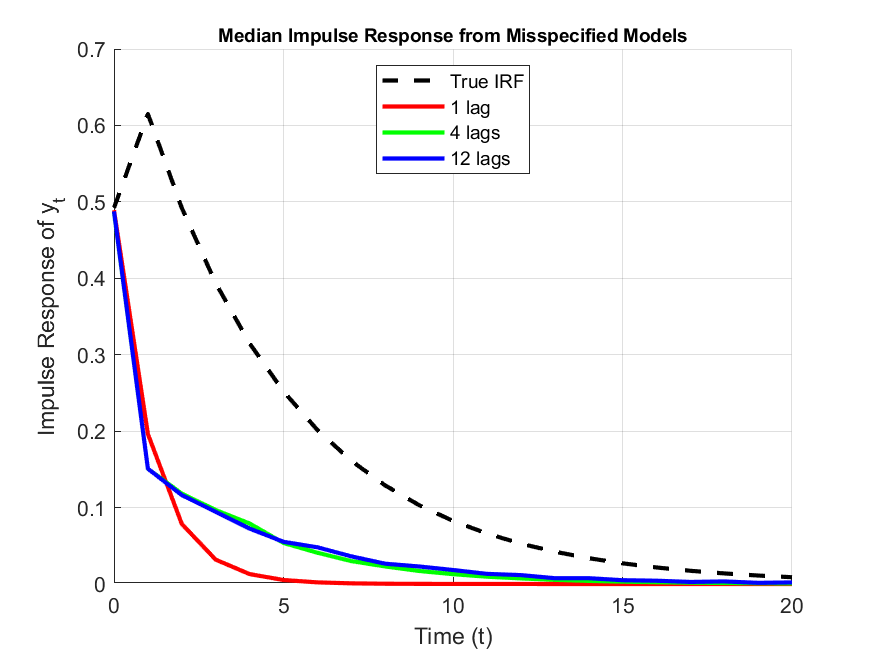
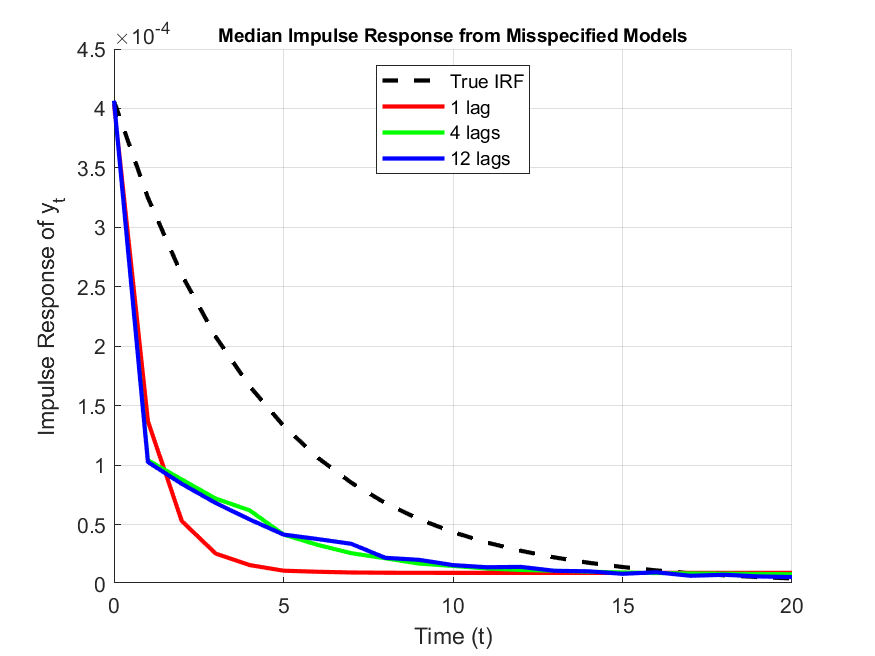
Final corrections and 1 std dev shock

diff --git a/PS1/ps1_5_Jorda_cont_irf.m b/PS1/ps1_5_Jorda_cont_irf.m
@@ -2,8 +2,8 @@ clear all
 
 % Parameters from previous solutions
 a = 0; %0.701502; % 1.43991; 
-b = 0.615; %0.262662; % -1.70648; 
-c = 0.492; %0.885;
+b = 0.49232; %0.262662; % -1.70648; 
+c = 0.6154; %0.885;
 d = 0.115;  % Not used here since eta_t = 0
 rho = 0.8;
 T = 600; % I will burn the first 100
@@ -17,6 +17,9 @@ sigma_eta = 0.007;
 sigma_eps = 0.00066;
 
 H = 20;  % horizon
+
+% shock to be simulated in Jorda's beta_h's
+shock_eps = 0.00066;
 
 % Storage for LP with control (y_{t-1})
 IRF_LP_control = zeros(H+1, N_sim);
@@ -41,7 +44,7 @@ for s = 1:N_sim
         y_lag = y(1:T);                      % y_{t-1}
         X = [ones(T,1), eps_t, y_lag];       % Add constant + controls
         b_lp = pinv(X)*Y_h;
-        IRF_LP_control(h+1, s) = b_lp(2);    % β_h on ε_t
+        IRF_LP_control(h+1, s) = b_lp(2)*shock_eps;    % β_h on ε_t
     end
 end
 
@@ -52,7 +55,7 @@ median_LP_control = median(IRF_LP_control, 2);
 horizon = 21; 
 true_irf = zeros(horizon,1);
 deltaM = zeros(horizon,1);
-eps_irf = zeros(horizon,1); eps_irf(1) = 1; % for Jorda, we use a 1 unit dev
+eps_irf = zeros(horizon,1); eps_irf(1) = shock_eps; % for Jorda shock
 
 for t = 1:horizon
     if t == 1

diff --git a/PS1/ps1_5_Jorda_irf.m b/PS1/ps1_5_Jorda_irf.m
@@ -2,8 +2,8 @@ clear all
 
 % Parameters from previous solutions
 a = 0; %0.701502; % 1.43991; 
-b = 0.615; %0.262662; % -1.70648; 
-c = 0.492; %0.885;
+b = 0.49232; %0.262662; % -1.70648; 
+c = 0.6154; %0.885;
 d = 0.115;  % Not used here since eta_t = 0
 rho = 0.8;
 T = 600; % I will burn the first 100
@@ -19,6 +19,9 @@ IRF_LP = zeros(H+1, N_sim);
 % Standard deviations (set so that Var(ΔM) = Var(η))
 sigma_eta = 0.007;
 sigma_eps = 0.00066;
+
+% shock to be simulated in Jorda's beta_h's
+shock_eps = 0.00066;
 
 for s = 1:N_sim
     % Simulate shocks
@@ -42,7 +45,7 @@ for s = 1:N_sim
         % Right-hand side: ε_t
         X = [ones(T,1), eps(1:T)];
         b_lp = pinv(X)*Y_h;
-        IRF_LP(h+1, s) = b_lp(2);  % β_h
+        IRF_LP(h+1, s) = b_lp(2)*shock_eps;  % β_h
     end
 end
 
@@ -53,7 +56,7 @@ median_LP = median(IRF_LP, 2);
 horizon = 21; 
 true_irf = zeros(horizon,1);
 deltaM = zeros(horizon,1);
-eps_irf = zeros(horizon,1); eps_irf(1) = 1; % for Jorda shock has to be 1
+eps_irf = zeros(horizon,1); eps_irf(1) = shock_eps; % for Jorda shock 
 
 for t = 1:horizon
     if t == 1

diff --git a/PS1/ps1_3_misspec_irf.m b/PS1/ps1_3_misspec_irf.m
@@ -2,8 +2,8 @@ clear all
 
 % Parameters from previous solutions
 a = 0; %0.701502; % 1.43991; 
-b = 0.615; %0.262662; % -1.70648; 
-c = 0.492; %0.885;
+b = 0.49232; %0.262662; % -1.70648; 
+c = 0.6154; %0.885;
 d = 0.115;  % Not used here since eta_t = 0
 rho = 0.8;
 T = 600; % I will burn the first 100
@@ -49,7 +49,7 @@ for s = 1:N_sim
     b1 = pinv(X1)*Y;
     % Impulse response: simulate y_t after ε_0 = 1 standard dev
     y1 = zeros(horizon,1);
-    eps_irf = zeros(horizon,1); eps_irf(1) = 1; % 0.00066;
+    eps_irf = zeros(horizon,1); eps_irf(1) = 0.00066; % 0.00066;
     y1(1) = b1(1) + b1(end)*eps_irf(1); % initial response: alpha + gamma*shock
     for t = 2:horizon
         y1(t) = b1(1) + b1(2) * y1(t-1) + b1(3) * eps_irf(t);
@@ -105,7 +105,7 @@ median_12 = median(IRF_12lag, 2);
 % --- Compute true impulse response ---
 true_irf = zeros(horizon,1);
 deltaM = zeros(horizon,1);
-eps_irf = zeros(horizon,1); eps_irf(1) = 1; %0.00066;
+eps_irf = zeros(horizon,1); eps_irf(1) = 0.00066; %0.00066;
 
 for t = 1:horizon
     if t == 1

diff --git a/PS1/ps1_4_eps6_irf.m b/PS1/ps1_4_eps6_irf.m
@@ -2,8 +2,8 @@ clear all
 
 % Parameters from previous solutions
 a = 0; %0.701502; % 1.43991; 
-b = 0.615; %0.262662; % -1.70648; 
-c = 0.492; %0.885;
+b = 0.49232; %0.262662; % -1.70648; 
+c = 0.6154; %0.885;
 d = 0.115;  % Not used here since eta_t = 0
 rho = 0.8;
 T = 600; % I will burn the first 100
@@ -58,7 +58,7 @@ for s = 1:N_sim
 
     % Compute impulse response
     y_irf = zeros(horizon, 1);
-    eps_irf = zeros(horizon, 1); eps_irf(1) = 1;%0.00066;
+    eps_irf = zeros(horizon, 1); eps_irf(1) = 0.00066;
     %deltaM_irf = zeros(horizon,1); deltaM_irf(1) = eps_irf(1); % initial shock just contemporary
     y_irf(1) = b_est(1) + b_est(3)*eps_irf(1); % initial response: alpha + gamma*shock
 
@@ -81,7 +81,7 @@ median_dM6 = median(IRF_eps6, 2);
 % --- Compute true impulse response ---
 true_irf = zeros(horizon,1);
 deltaM = zeros(horizon,1);
-eps_irf = zeros(horizon,1); eps_irf(1) = 1;%0.00066;
+eps_irf = zeros(horizon,1); eps_irf(1) = 0.00066;
 
 for t = 1:horizon
     if t == 1

diff --git a/PS1/ps1_4_monetary_irf.m b/PS1/ps1_4_monetary_irf.m
@@ -2,8 +2,8 @@ clear all
 
 % Parameters from previous solutions
 a = 0; %0.701502; % 1.43991; 
-b = 0.615; %0.262662; % -1.70648; 
-c = 0.492; %0.885;
+b = 0.49232; %0.262662; % -1.70648; 
+c = 0.6154; %0.885;
 d = 0.115;  % Not used here since eta_t = 0
 rho = 0.8;
 T = 600; % I will burn the first 100
@@ -52,7 +52,7 @@ for s = 1:N_sim
 
     % Compute impulse response
     y_irf = zeros(horizon, 1);
-    eps_irf = zeros(horizon, 1); eps_irf(1) = 1;%0.00066;
+    eps_irf = zeros(horizon, 1); eps_irf(1) = 0.00066;
     deltaM_irf = zeros(horizon,1); deltaM_irf(1) = eps_irf(1); % initial shock just contemporary
     y_irf(1) = b_est(1) + b_est(end)*eps_irf(1); % initial response: alpha + gamma*shock
 
@@ -75,7 +75,7 @@ median_dM6 = median(IRF_dM6, 2);
 % --- Compute true impulse response ---
 true_irf = zeros(horizon,1);
 deltaM = zeros(horizon,1);
-eps_irf = zeros(horizon,1); eps_irf(1) = 1;%0.00066;
+eps_irf = zeros(horizon,1); eps_irf(1) = 0.00066;
 
 for t = 1:horizon
     if t == 1

diff --git a/PS1/ps1_2_true_irf.m b/PS1/ps1_2_true_irf.m
@@ -7,8 +7,8 @@ rho = 0.8;
 
 % Coefficients from numerical solution (approximated)
 a = 0; %0.701502; % 1.43991; 
-b = 0.615; %0.262662; % -1.70648; 
-c = 0.492; %0.885;
+b = 0.49232; %0.262662; % -1.70648; 
+c = 0.6154; %0.885;
 d = 0.115;  % Not used here since eta_t = 0
 
 % Simulation settings
@@ -19,8 +19,8 @@ eps = zeros(T, 1);          % Monetary shocks
 eta = zeros(T, 1);          % Productivity shocks
 
 % Apply one-unit shock at t = 0 -- or 1 standard deviation for eps
-eps(1) = 1;
-%eps(1) = 0.00066;
+%eps(1) = 1;
+eps(1) = 0.00066;
 
 % Simulate model
 for t = 1:T
@@ -36,7 +36,7 @@ end
 % Plot impulse response
 figure;
 plot(0:T-1, y, 'o-', 'LineWidth', 2);
-title('True Impulse Response of Output to a 1-Monetary Shock','FontSize',9);
+title('True Impulse Response of Output to a σ-Monetary Shock','FontSize',9);
 xlabel('Time after shock (t)');
 ylabel('Output (y_t)');
 grid on;

diff --git a/PS1/ps1_master.m b/PS1/ps1_master.m
@@ -1,0 +1,21 @@
+% run_all.m
+
+disp('Plotting True IRF...');
+ps1_2_true_irf;
+
+disp('Plotting misspecified IRFs with output lags and contemporaneous monetary shock...');
+ps1_3_misspec_irf;
+
+disp('Plotting misspecified IRF with 6 lags of monetary shocks ...');
+ps1_4_eps6_irf;
+
+disp('Plotting misspecified IRF with 6 lags of monetary base...');
+ps1_4_monetary_irf;
+
+disp('Plotting Jorda Local Projections...');
+ps1_5_Jorda_irf;
+
+disp('Plotting Jorda Local Projections with one output lag...');
+ps1_5_Jorda_cont_irf;
+
+disp('All scripts completed.');
